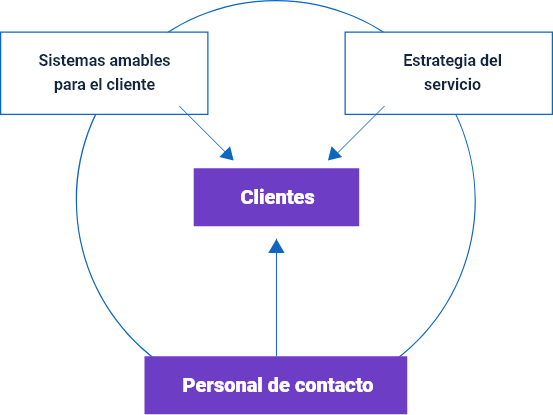
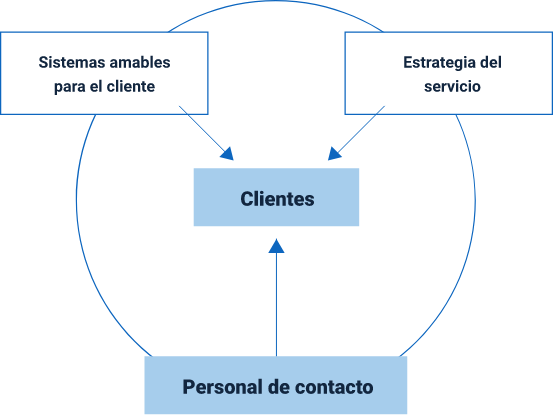
[ADD] Tema 7

diff --git a/src/styles/_custom.sass b/src/styles/_custom.sass
@@ -444,14 +444,13 @@ figcaption, table caption
 // acordion tema 7
 
 .acordion__accion__btn--a
-  background-color: #BE79CA
+  background-color: $color-acento-botones
   box-shadow: 0px 0px 7px 2px rgba(0,0,0,.3)
-
 .acordion .tarjeta--azul
-  background-color: #6E3DC6
+  background-color: $color-primario
 
 .acordion .tarjeta.tarjeta--azul.acordion__activo
-  background-color: #F2E4F5
+  background-color: #E4F0F9
   h3
     color: black
 .acordion__titulo

diff --git a/src/views/Tema7.vue b/src/views/Tema7.vue
@@ -9,7 +9,7 @@
 
     .row.justify-content-center.align-items-center(data-aos="zoom-in")
       .col-sm-12.col-md-12.col-lg-10
-        .bloque-texto-g.color-acento-contenido.p-3.p-sm-4.p-md-5
+        .bloque-texto-g.color-secundario.p-3.p-sm-4.p-md-5
           .bloque-texto-g__img(
             :style="{'background-image': `url(${require('@/assets/curso/temas/tema6y7/img3.png')})`}"
           )
